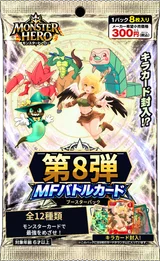
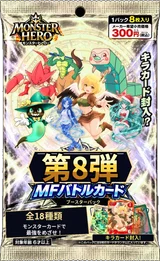
MFバトルカード: 第8弾の袋の絵を全18種類に差し替える(社長が選んだ見本)
Claude-Session: https://claude.ai/code/session_0113GBaFPewpoywBo89sSfcH

Changed region(s): [[0.6562, 0.3372, 0.9062, 0.5824], [0.3125, 0.3678, 0.5312, 0.5824], [0.25, 0.7969, 0.2812, 0.8582]]

diff --git a/monster-hero/index.html b/monster-hero/index.html
@@ -102,7 +102,7 @@ var GAME_BUILD = '35201ec3bc21';
 window.__mhGameBuild = GAME_BUILD;
 // 画面に出す版の日時(BUILD_DATE)。本体の中に書くと、ビルドのたびに本体の中身(と GAME_BUILD)が変わり、
 // 事前ダウンロードにためた本体が使えなくなるので、ここから渡す。tools/stamp-version.js が version.json と同じ値を打つ
-window.__mhBuildDate = '2026-11-11 18:09';
+window.__mhBuildDate = '2026-11-11 18:14';
 // 起動でいちばん大きいのは本体JS(約2.7MB)。いちばん後ろで読むため、そこへ来ると
 // ゲージが止まって見えていた。先に取りはじめて、受け取ったバイト数をそのまま出す。
 // ここで取ったものはブラウザのキャッシュに載るので、下の <script> は取り直さない
@@ -2278,7 +2278,7 @@ window.__mhBoot.prefetch('game-system.compiled.js', 'game-system.compiled.js?v='
 <body>
 <div id="loading"><div class="static-mocchi"><img id="static-mocchi-image" alt="モッチー"><span></span></div><section class="static-copy"><h1>NOW LOADING</h1><h2>冒険の準備をしています</h2><div class="static-progress"><span></span></div><strong>0%</strong><p>ゲームシステムを起動中</p></section></div>
 <div id="root"></div>
-<script src="data/images/images-ally.js?v=d61a4562cab0" onload="__mhBoot.done('data/images/images-ally.js','モンスターの絵を読み込み中')" onerror="__mhBoot.fail('data/images/images-ally.js')"></script>
+<script src="data/images/images-ally.js?v=4c0cc620fa70" onload="__mhBoot.done('data/images/images-ally.js','モンスターの絵を読み込み中')" onerror="__mhBoot.fail('data/images/images-ally.js')"></script>
 <script>try{document.getElementById('static-mocchi-image').src=MOCCHI_IMG}catch(e){}</script>
 <script src="data/images/images-enemy.js?v=f10f6ad82110" onload="__mhBoot.done('data/images/images-enemy.js','敵モンスターの絵を読み込み中')" onerror="__mhBoot.fail('data/images/images-enemy.js')"></script>
 <script src="data/ally-monsters.js?v=4309001c3dde" onload="__mhBoot.done('data/ally-monsters.js','モンスターデータを読み込み中')" onerror="__mhBoot.fail('data/ally-monsters.js')"></script>
@@ -2291,7 +2291,7 @@ window.__mhBoot.prefetch('game-system.compiled.js', 'game-system.compiled.js?v='
 <script src="data/rhythm-geometry-calibration.js?v=02534cca12f6" onload="__mhBoot.done('data/rhythm-geometry-calibration.js','音ゲー座標校正を読み込み中')" onerror="__mhBoot.fail('data/rhythm-geometry-calibration.js')"></script>
 <script src="data/rhythm-result-replay-remount.js?v=381554180360" onload="__mhBoot.done('data/rhythm-result-replay-remount.js','音ゲー再プレイ処理を読み込み中')" onerror="__mhBoot.fail('data/rhythm-result-replay-remount.js')"></script>
 <script src="data/rhythm-event.js?v=1a9f557002b8" onload="__mhBoot.done('data/rhythm-event.js','週間ランキングを読み込み中')" onerror="__mhBoot.fail('data/rhythm-event.js')"></script>
-<script src="data/changelog.js?v=b0ab292fbd26" onload="__mhBoot.done('data/changelog.js','更新情報を読み込み中')" onerror="__mhBoot.fail('data/changelog.js')"></script>
+<script src="data/changelog.js?v=7b202fc26aa6" onload="__mhBoot.done('data/changelog.js','更新情報を読み込み中')" onerror="__mhBoot.fail('data/changelog.js')"></script>
 <script src="data/help.js?v=334005fb0d0a" onload="__mhBoot.done('data/help.js','ヘルプを読み込み中')" onerror="__mhBoot.fail('data/help.js')"></script>
 <script data-mhsave-backup src="data/mhsave-backup.js?v=7845a4fd261f" onload="__mhBoot.done('data/mhsave-backup.js','バックアップ機能を読み込み中')" onerror="__mhBoot.fail('data/mhsave-backup.js')"></script>
 <script src="data/rhythm-step3-release.js?v=ae1d7f73f23a" onload="__mhBoot.done('data/rhythm-step3-release.js','音ゲー更新情報を読み込み中')" onerror="__mhBoot.fail('data/rhythm-step3-release.js')"></script>

diff --git a/tools/card/card-mia-spooky-check.js b/tools/card/card-mia-spooky-check.js
@@ -64,7 +64,7 @@ const ally = read('monster-hero/data/images/images-ally.js');
 ids.forEach((no) => { assert(new RegExp(`'${no}': ${K.img}`).test(ally), `${no} の立ち絵`); assert(new RegExp(`'${no}': ${K.face}`).test(ally), `${no} の顔`); });
 for (const f of K.files) assert(fs.statSync(path.join(root, 'monster-hero', f)).size > 0);
 }
-// 第8弾: もとは5体(通常5・キラ5・別絵キラ2)= 袋の「全12種類」。ウンディーネ・スネグーラチカで 7体(袋の絵の扱いは窓口の返事待ち)
+// 第8弾: もとは5体(通常5・キラ5・別絵キラ2)= 袋の「全12種類」。ウンディーネ・スネグーラチカで 7体(袋の絵も 2026-11-11 に「全18種類」へ作り直した)
 // 2026-11-11 にウンディーネ(C-921)・スネグーラチカ(C-952)が3種類ずつ入って 7体(通常7・キラ7・別絵キラ4)
 assert.deepEqual(rarities.map((k) => E.cardPackMonPool(db, p, k).length), [7, 7, 4]);
 assert.equal(JSON.stringify(E.cardPackMonPool(db, p, 'alt')), JSON.stringify(['C-069V', 'C-070V', 'C-921V', 'C-952V']));

diff --git a/monster-hero/data/images/images-ally.js b/monster-hero/data/images/images-ally.js
@@ -255,7 +255,7 @@ const CARD_PACK_ART_IMGS = Object.freeze({
   p5: Object.freeze({ full: "images/card-battle/packs/p5.webp?v=2548b7e299b5", thumb: "images/card-battle/packs/p5-thumb.webp?v=ab2f8539674c" }),
   p6: Object.freeze({ full: "images/card-battle/packs/p6.webp?v=a39cb36712e9", thumb: "images/card-battle/packs/p6-thumb.webp?v=3a7b7941c6b1" }),
   p7: Object.freeze({ full: "images/card-battle/packs/p7.webp?v=70e172f70b48", thumb: "images/card-battle/packs/p7-thumb.webp?v=7240baa2f783" }),
-  p8: Object.freeze({ full: "images/card-battle/packs/p8.webp?v=b2300408401e", thumb: "images/card-battle/packs/p8-thumb.webp?v=90032536da24" }),
+  p8: Object.freeze({ full: "images/card-battle/packs/p8.webp?v=a9f1a993b777", thumb: "images/card-battle/packs/p8-thumb.webp?v=7f03ed9e117b" }),
 });
 const HYBRID_MONSTER_IMGS = Object.freeze({
   'C-010': HYBRID_C010_IMG,

diff --git a/monster-hero/data/changelog.js b/monster-hero/data/changelog.js
@@ -37,7 +37,7 @@ const CHANGELOG = [
   {
     // ウンディーネのカード(2026-11-11 社長「バトルカードに新血統を追加。ウンディーネ種」。第8弾。部長ソランドの案・オリヒメの番号の行は外した)
     date: "2026-11-11 15:44", type:'update', group:'cardBattle', title:'ウンディーネのカードが入りました', status:'new',
-    image:'images/card-battle/packs/p8.webp?v=b2300408401e',
+    image:'images/card-battle/packs/p8.webp?v=a9f1a993b777',
     items:[
       '第8弾パックに、ウンディーネのカードと、ウンディーネの技カード13枚が入りました。ウンディーネの混血のスネグーラチカも、第8弾パックから出ます。',
       'ウンディーネとスネグーラチカは、どちらも通常・キラ・レアキラの3種類です。',

diff --git a/docs/rules/PRESIDENT_DECISIONS.md b/docs/rules/PRESIDENT_DECISIONS.md
@@ -1148,3 +1148,4 @@
 - 2026-11-11 MFバトルカードの場に出るウンディーネ・スネグーラチカの絵は、本編の2Dの立ち絵(キュービ・オリヒメと同じ)。社長から届いたカード用の立ち絵2枚は使わない(社長)
 - 2026-11-11 ウンディーネのカードの更新履歴(「ウンディーネのカードが入りました」5行・オリヒメの番号の行は外す)とヘルプは、止め絵を見せたあとに社長の「この文で」を取って公開(社長)
 - 2026-11-11 第8弾の種類の目安「50前後」は、ウンディーネが入った第8弾だけ 80 に直す。第8弾の袋の絵(p8)は、ウンディーネとスネグーラチカを入れて「全18種類」に作り直す(公開は新しい絵を社長に見せてから)。スネグーラチカの画面の番号(C-◆04)はオリヒメの絵が届くまでこのまま(社長)
+- 2026-11-11 第8弾の袋の絵は、ウンディーネ・スネグーラチカ(カードのイラスト)を足して「全18種類」にした見本(docs/progress/card-undine/stills/p8-sample-18.png)で差し替える(社長「これでよい」)
